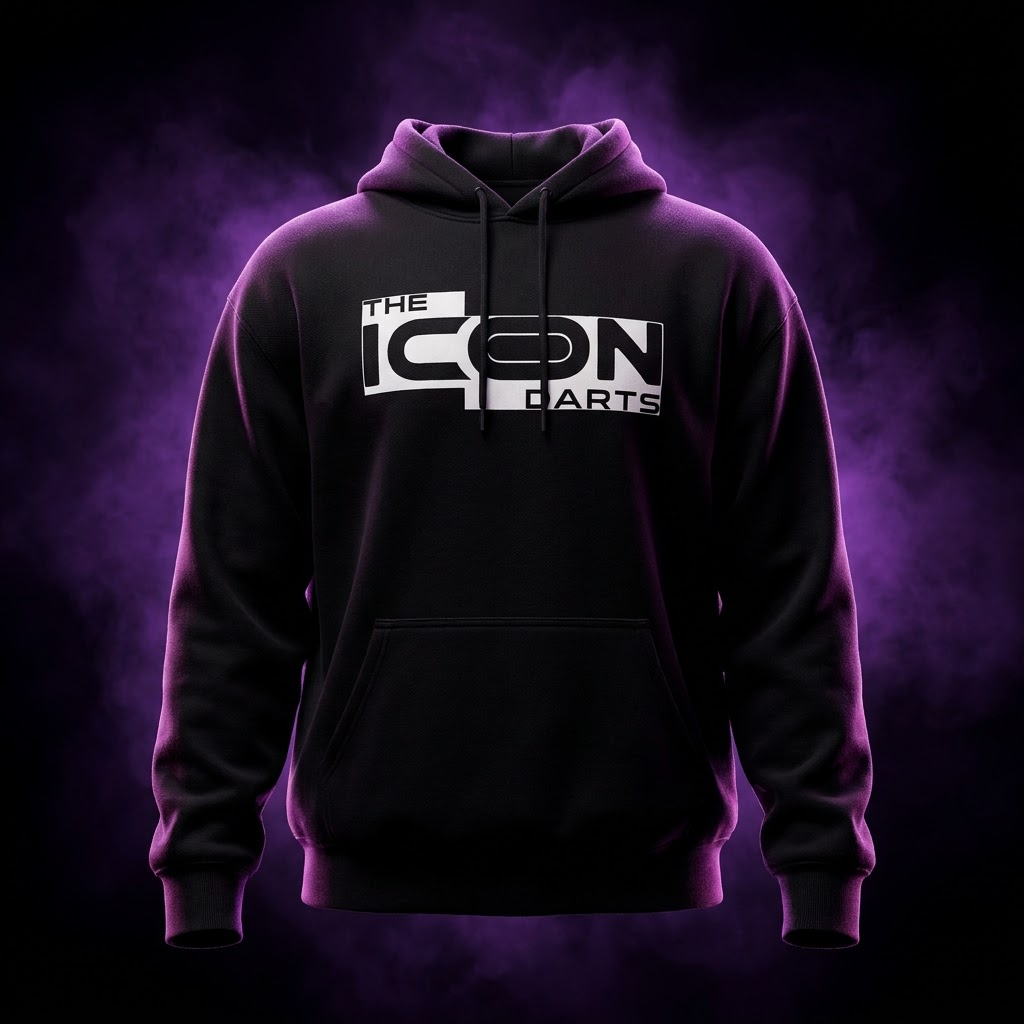
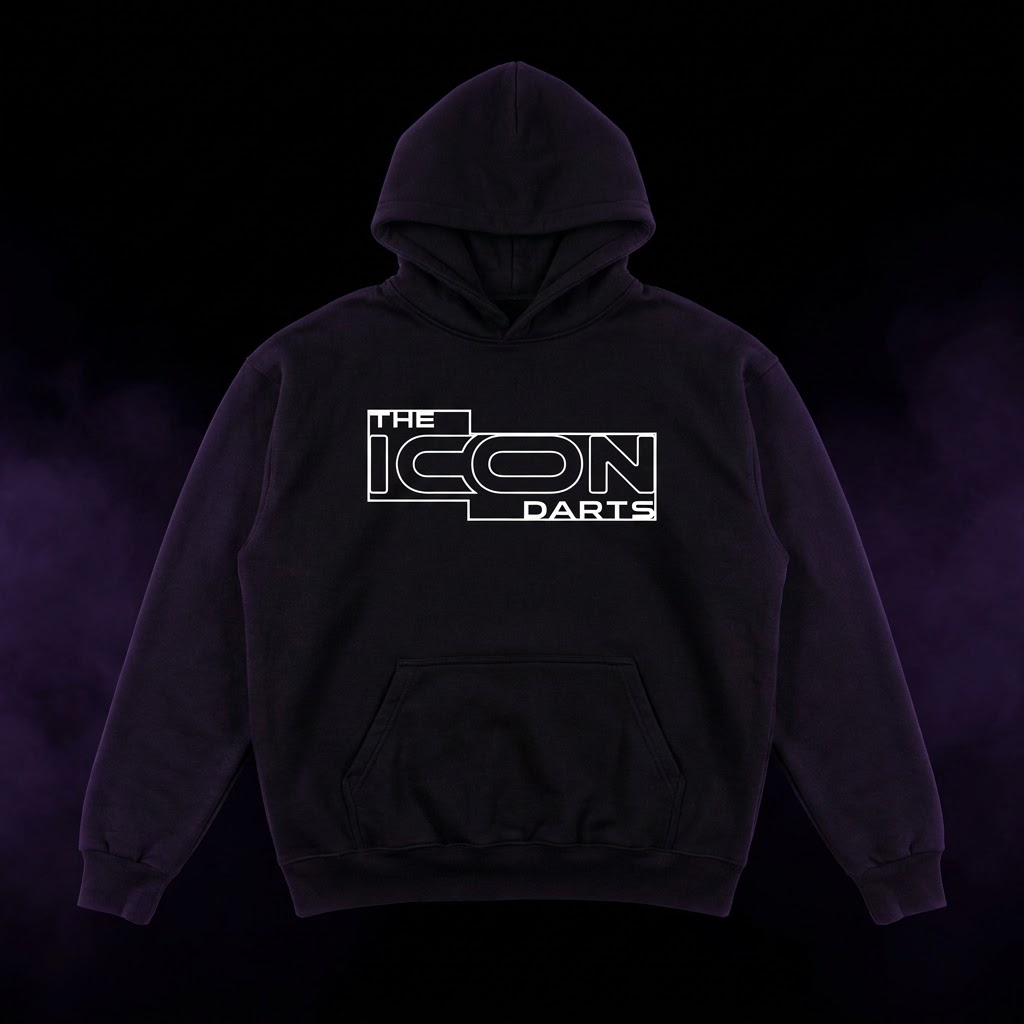
Fix Shop header z-index + regen broken product images
- Shop category pills get position relative so they stack above decorative SVG
- Regenerate icon-hoodie.jpg: clean centered THE ICON DARTS logo
- Regenerate icon-led-ring.jpg: no more weird white frame around image

diff --git a/src/pages/Shop.tsx b/src/pages/Shop.tsx
@@ -39,7 +39,7 @@ export default function Shop() {
         </div>
 
         {/* Category Pills */}
-        <div className="flex gap-2 px-4 pb-5 overflow-x-auto scroll-hide">
+        <div className="relative flex gap-2 px-4 pb-5 overflow-x-auto scroll-hide">
           {categories.map((c) => (
             <button
               key={c.key}